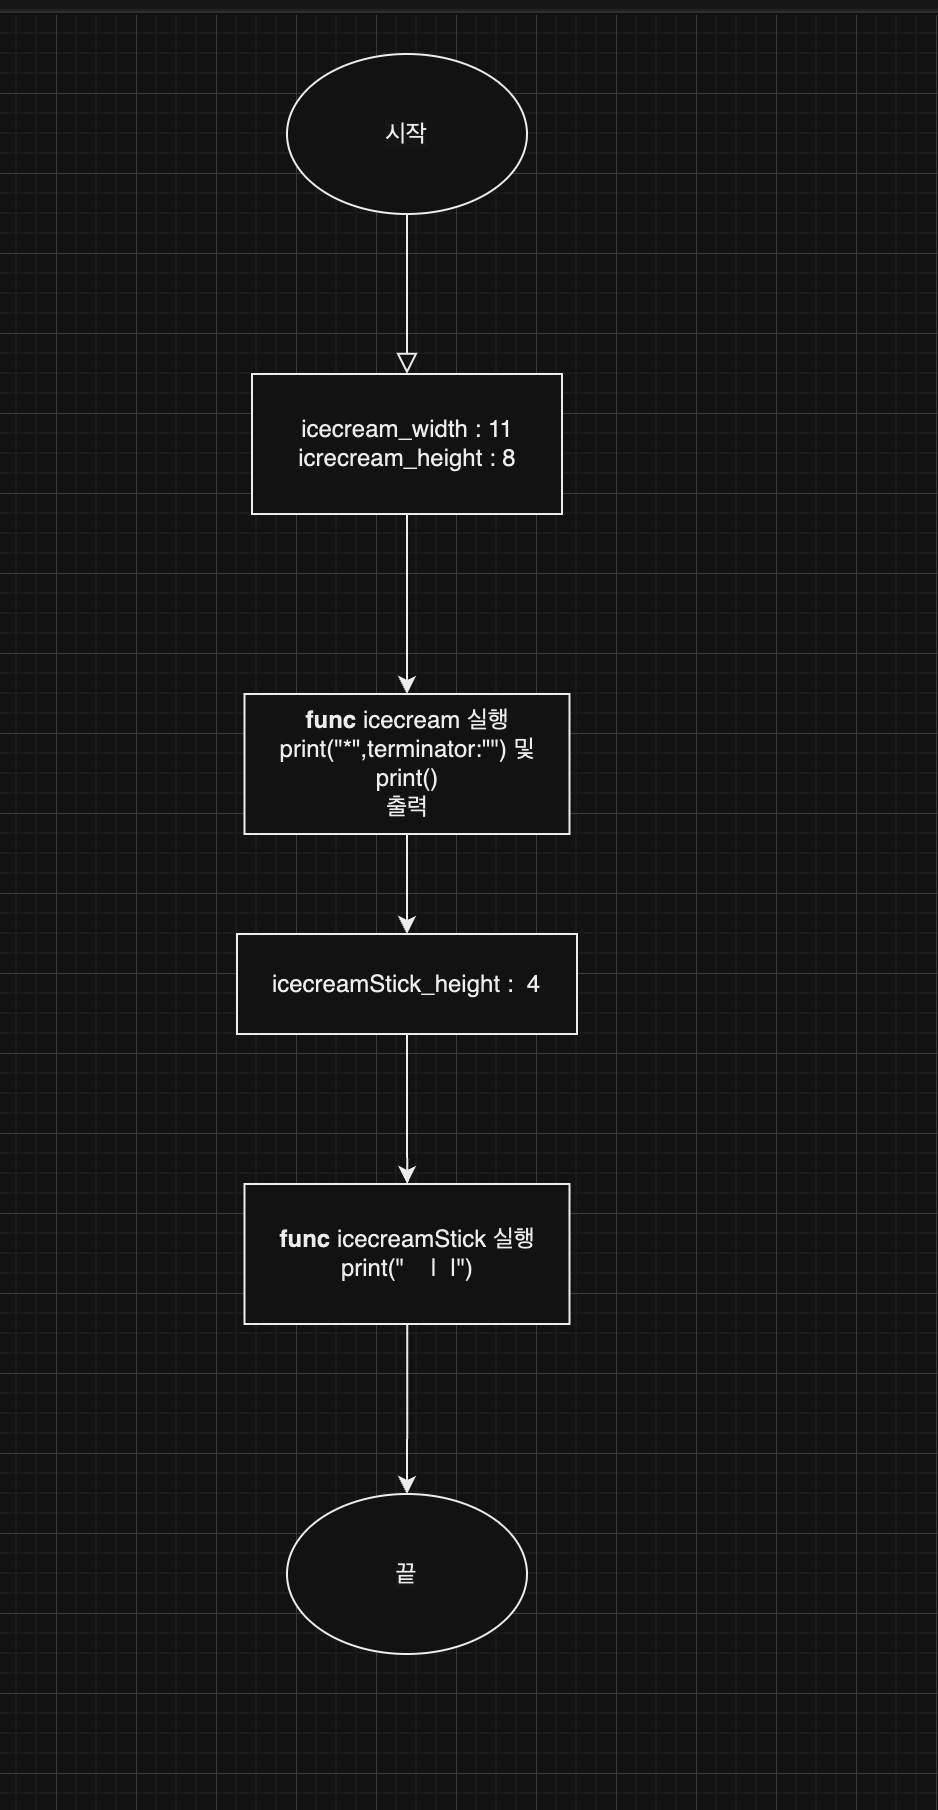
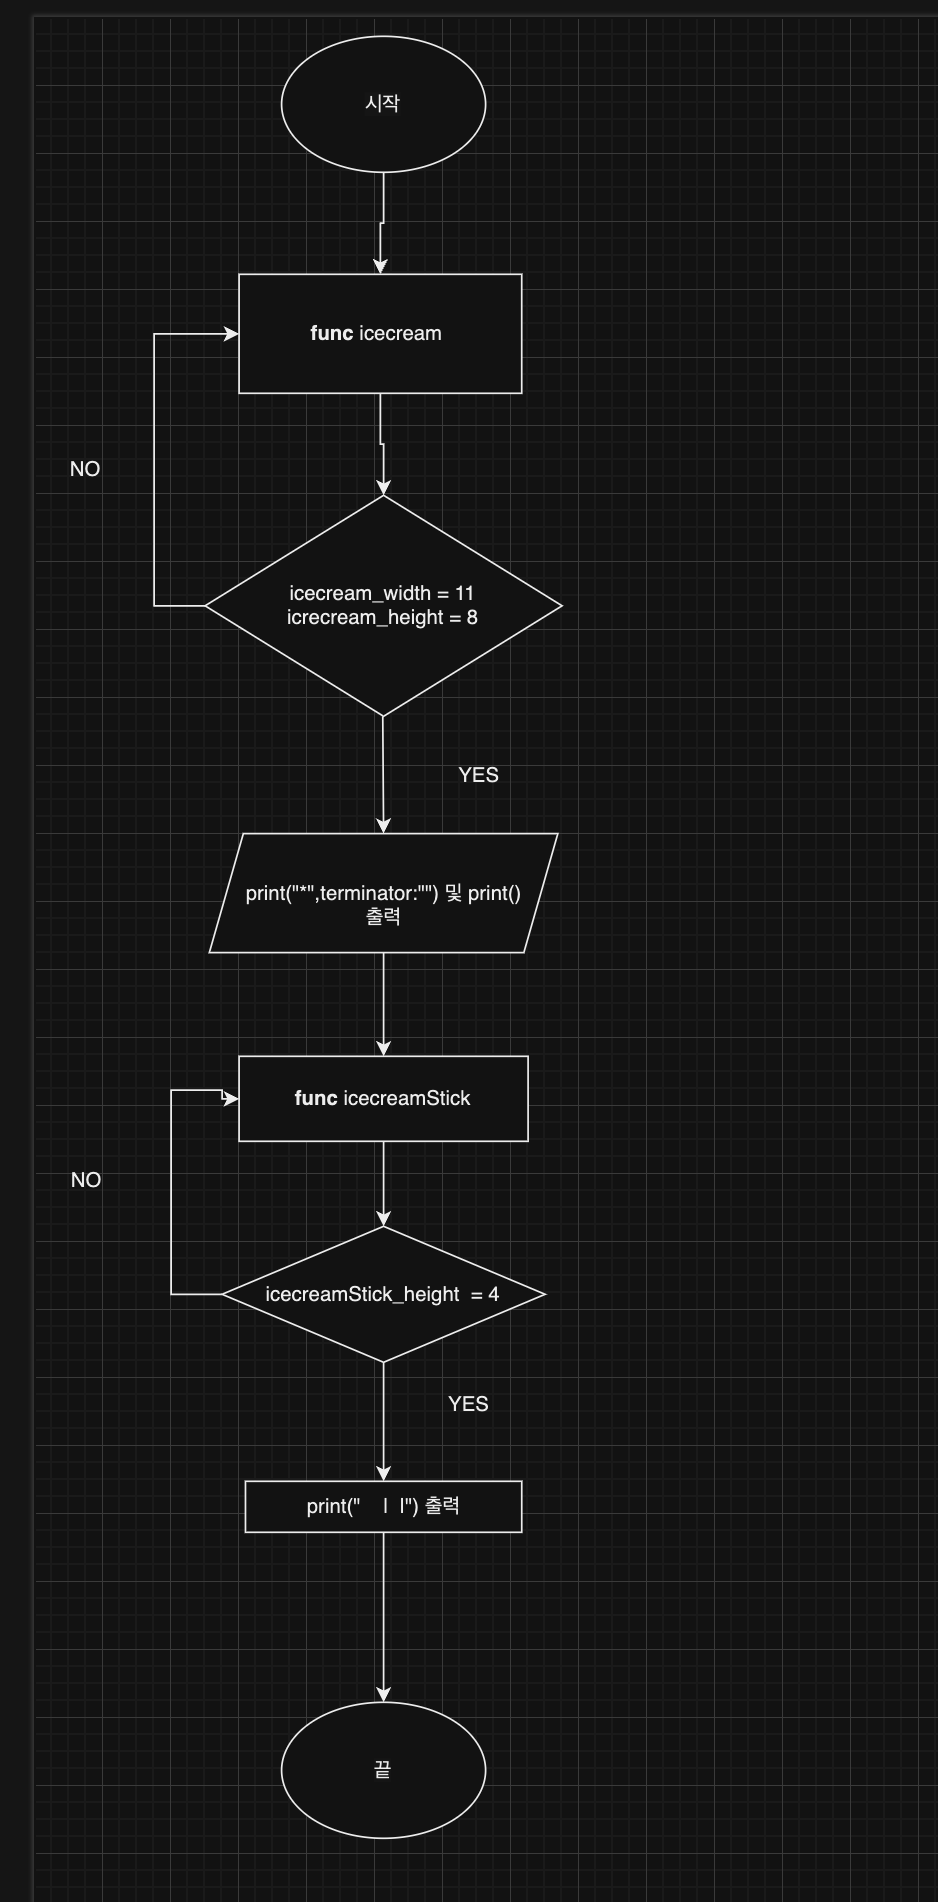
순서도 및 코드 수정

diff --git a/CodeStarterCamp_Week1/main.swift b/CodeStarterCamp_Week1/main.swift
@@ -1,9 +1,9 @@
 func icecream(width: Int, height: Int) {
     for _ in 1...height {
         for _ in 1...width {
-            print("*",terminator:"")
+            print("*", terminator:"")
         }
-        print()
+        print("")
     }
 }
 
@@ -17,15 +17,15 @@ func icecreamStick(height: Int) {
 
 
 
-var icecream_width: Int = 11
-var icrecream_height: Int = 8
-var icecreamStick_height: Int = 4
+var icecreamWidth: Int = 11
+var icecreamHeight: Int = 8
+var icecreamStickHeight: Int = 4
 
 
 //print("값 변경 후 출력")
 //icecream_width = 13
 //icrecream_height = 10
 //icecreamStick_height = 4
-icecream(width: icecream_width, height: icrecream_height)
-icecreamStick(height: icecreamStick_height)
+icecream(width: icecreamWidth, height: icecreamHeight)
+icecreamStick(height: icecreamStickHeight)
 
